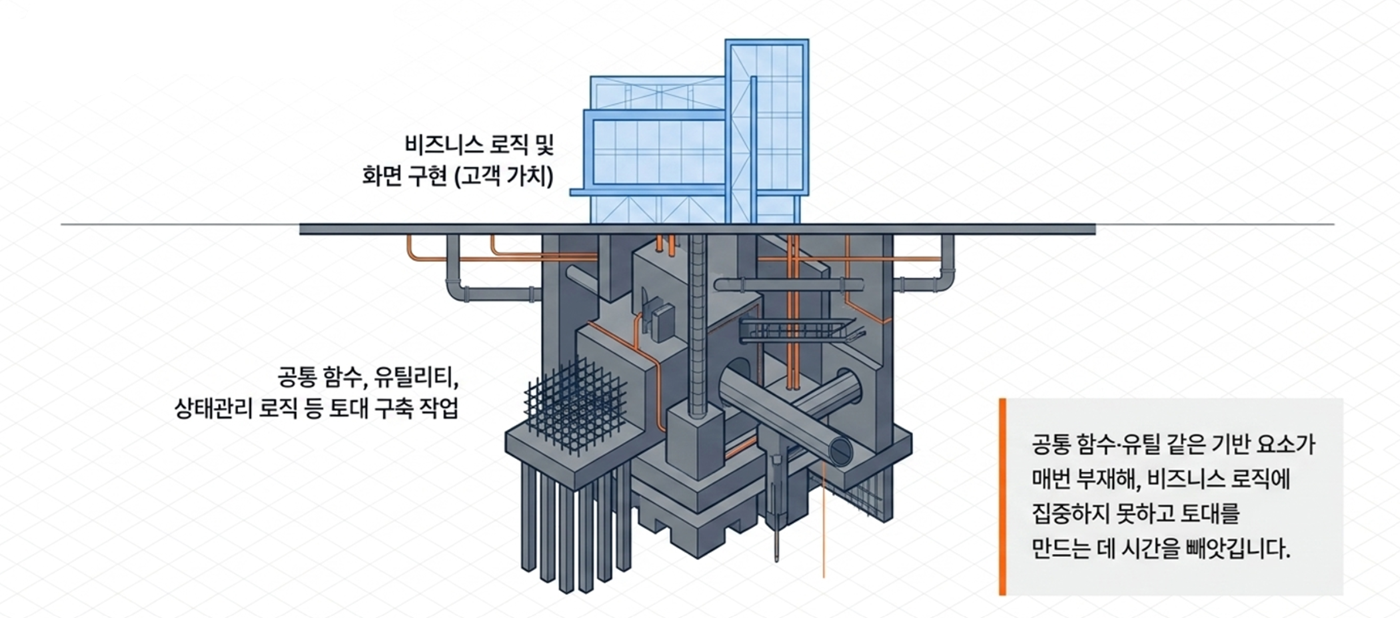
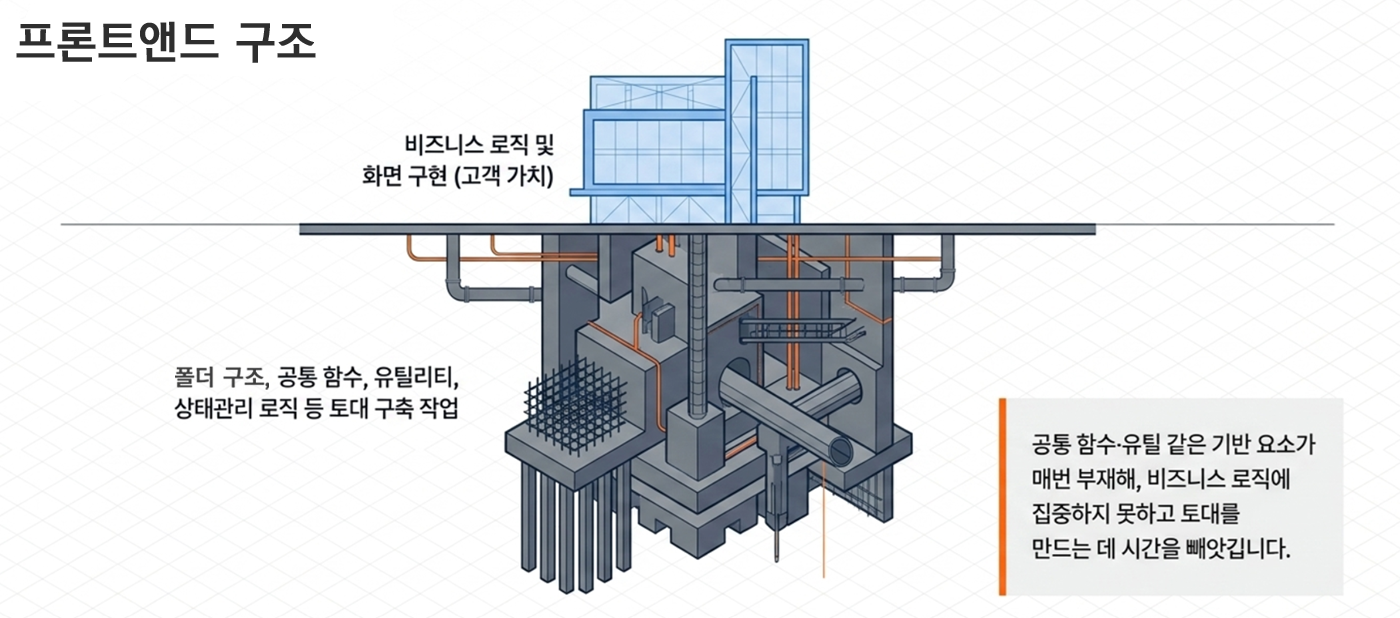
슬라이드작업 수정

Changed region(s): [[0.0, 0.0307, 0.2457, 0.123], [0.1229, 0.5841, 0.1843, 0.6456]]

diff --git a/03-why-situation-2.html b/03-why-situation-2.html
@@ -21,7 +21,7 @@
           <span class="sep"></span>
           <span class="step"><b>02</b> / 02</span>
         </div>
-        <h2>공통 함수·유틸 <span class="em">기반 요소 부재</span>, 비즈니스 로직에 집중하지 못함.</h2>
+        <h2>중요한 <span class="em">기반 요소 부재</span>, 비즈니스 로직에 집중하지 못함.</h2>
         <!-- <p class="lead">프론트엔드 개발 시 매번 토대부터 새로 쌓느라, <b>정작 풀어야 할 비즈니스 로직</b>에 쓸 에너지가 분산됩니다.</p> -->
       </div>
       <figure class="shot shrink" data-ph="개선 전 ② · 기반 요소 부재 — img/why-before-2.png">

diff --git a/03-why-situation-3.html b/03-why-situation-3.html
@@ -21,7 +21,7 @@
           <span class="sep"></span>
           <span class="step"><b>01</b> / 02</span>
         </div>
-        <h2>반복되던 <span class="em">이 모든 작업</span>이, 이미 완성된 채로 세팅되어 있습니다</h2>
+        <h2>반복되던 <span class="em">이 모든 작업</span>이, 이미 완성된 채로 세팅되었으면</h2>
         <!-- <p class="lead">UI/UX 디자인 시스템, 공통 함수·유틸, 상태관리 로직까지 — <b>처음부터 갖춰진 상태</b>에서 비즈니스 로직만 얹으면 됩니다.</p> -->
       </div>
       <figure class="shot shrink" data-ph="개선 후 ① · 완성된 세팅 — img/why-after-1.png">